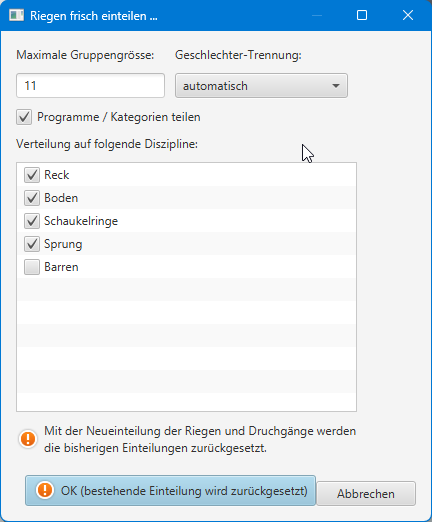
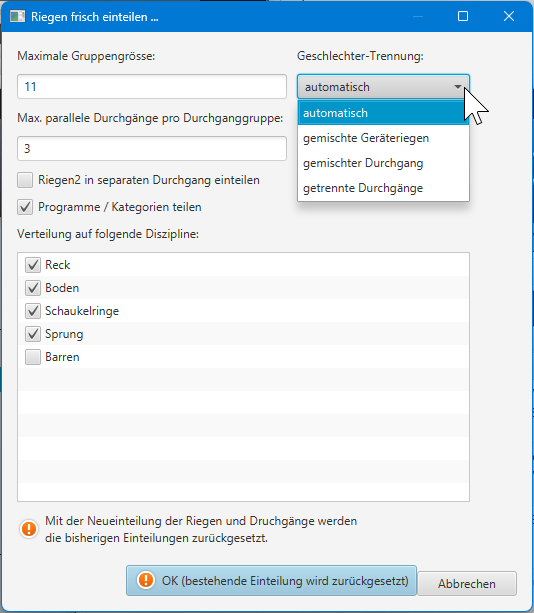
Beschreibung der optimierten Durchgangs-Einteilungs Funktionen

Changed region(s): [[0.0, 0.0, 1.0, 1.0]]

diff --git a/wettkampf-vorbereitung/riegeneinteilung_erstellen/riegeneinteilung_erstellen_mustervorgehen_getu.md b/wettkampf-vorbereitung/riegeneinteilung_erstellen/riegeneinteilung_erstellen_mustervorgehen_getu.md
@@ -24,6 +24,7 @@ Im Dialog werden die neuen Parameter angegeben. Neben der Gruppengrösse können
 |                      Funktion | Beschreibung                                                                                                                                                                                                                                                                                                                                                                                                                                                                                                                                                                                                |
 | ----------------------------: | ----------------------------------------------------------------------------------------------------------------------------------------------------------------------------------------------------------------------------------------------------------------------------------------------------------------------------------------------------------------------------------------------------------------------------------------------------------------------------------------------------------------------------------------------------------------------------------------------------------- |
 |        Maximale Gruppengrösse | Limitieren oder erweitern, was zu mehr oder weniger Durchgängen führen kann.                                                                                                                                                                                                                                                                                                                                                                                                                                                                                                                                |
+| Max. parallele Durchgänge pro Durchganggruppe | Steuern ob und wieviele parallele Durchgänge in einer Abteilung betrieben werden sollen, sofern aufgrund der Anzahl Teilnehmenden und der Maximal-Anzahl der Riegengruppengrösse ein Druchgang nicht ausreicht und die Geräteriegen auf mehreren Durchgängen verteilt werden müssen. Mit dem Wert `0` werden keine Durchgangsgruppen gebildet und die zusätzlichen Durchgänge werden normal neben allen anderen Durchgängen eingegliedert. |
 |         Geschlechter-Trennung | Bei `gemischte Geräterieten` werden geschlecht-gemischte Riegen erstellt. Bei `gemischter Durchgang` werden Riegen ohne Geschlechts-Durchmischung erstellt, innerhalb eines Durchganges werden jedoch Riegen beider Geschlechter eingeteilt Bei `getrennte Durchgänge` werden Durchgänge ohne Geschlechts-Durchmischung erstellt. Die Aufteilung auf Geschlechts-Ebene kann helfen, die Turner in einen separaten Durchgang zu ziehen, in welchem dann z.B. auch Barren verwendet wird: ![Riegen & Durchgänge Einteilung nachbearbeiten 3](<../../assets/getu-durchgang-partial-replanning-barren.png>) |
 | Programme / Kategorien teilen | Wenn diese Option aktiviert ist, dann gibt es pro Programm/Kategorie eigene Durchgänge. Im deaktivierten Zustand können Programme/Kategorien in einem Durchgang gemischt werden.                                                                                                                                                                                                                                                                                                                                                                                                                            |
 |     Verteilung auf Diszipline | Einzelne `Geräte` im Durchgang `ausschliessen` oder mit `einschliessen` (Barren), was zu grösseren oder kleineren Gruppen führt und dadurch ev. mehr oder weniger Durchgängen.                                                                                                                                                                                                                                                                                                                                                                                                                              |
@@ -44,7 +45,13 @@ Die Riegen können auch mittels Drag & Drop auf ein anderes Startgerät oder in 
 
 Mit gruppierten Durchgängen ist darauf zu achten, dass beim Fallenlassen (drop) der Riege die Durchgang-Gruppe aufgeklappt ist. Auf zugegklappte Durchgangs-Gruppen kann keine Riege zugeteilt werden. Siehe auch [Durchgang-Planung](durchgang-planung.md)
 
-Im GeTu ist es bei geschlechts-gemischten Durchgängen üblich, dass die Barren-Station am Ende eines Durchgangs für alle Turner aus dem Durchgang durchgeführt wird. Diese Einteilung lässt sich mit folgendem Trick erreichen:
+Im GeTu ist es bei geschlechts-gemischten Durchgängen üblich, dass die Barren-Station am Ende eines Durchgangs für alle Turner aus dem Durchgang durchgeführt wird. Die automatische Einteilung kann die Barren-Riege in folgenden Varianten einteilen:
+
+1. Mit der Checkbox angewählt, dass die `Riege2 in einen separaten Durchgang eingeteilt` wird, wo dann die Barren-Riegen zugewiesen sind.
+2. Ohne dediziertem Durchgang für die Riege2-Zuteilung, aber in dem Durchgang als `Riege2 Gerät` integriert, so dass der Barren separat und nicht in die Rotation aller anderen Geräte kommt.
+3. Mit der Checkbox in der `Startgeräteliste beim Barren aktiviert`, wird der Barren in die normale Startgeräte-Rotation im selben Durchgang eingeteilt. Diese Einstellung ist vorbelegt bei reinen Männer-Wettkämpfen.
+
+Diese Einteilung lässt sich aber auch manuell mit folgendem Trick erreichen:
 
 | Beschreibung                                                                        | Illustration                                                                                       |
 | ----------------------------------------------------------------------------------- | -------------------------------------------------------------------------------------------------- |

diff --git a/wettkampf-vorbereitung/riegeneinteilung_erstellen/durchgang-neu-einteilen.md b/wettkampf-vorbereitung/riegeneinteilung_erstellen/durchgang-neu-einteilen.md
@@ -7,6 +7,7 @@
 | Funktion | Beschreibung |
 | :--- | :--- |
 | Maximale Gruppengrösse | Limitieren oder erweitern, was zu mehr oder weniger Durchgängen führen kann. Mit dem Wert `0` ist die Gruppengrösse unlimitiert. |
+| Max. parallele Durchgänge pro Durchganggruppe | Steuern ob und wieviele parallele Durchgänge in einer Abteilung betrieben werden sollen, sofern aufgrund der Anzahl Teilnehmenden und der Maximal-Anzahl der Riegengruppengrösse ein Druchgang nicht ausreicht und die Geräteriegen auf mehreren Durchgängen verteilt werden müssen. Mit dem Wert `0` werden keine Durchgangsgruppen gebildet und die zusätzlichen Durchgänge werden normal neben allen anderen Durchgängen eingegliedert. |
 | Geschlechter-Trennung | Bei `gemischte Geräteriegen` werden geschlecht-gemischte Riegen erstellt. Bei `gemischter Durchgang` werden Riegen ohne Geschlechts-Durchmischung erstellt, innerhalb eines Durchganges werden jedoch Riegen beider Geschlechter eingeteilt. Bei `getrennte Durchgänge` werden Durchgänge ohne Geschlechts-Durchmischung erstellt. Mit `automatisch` entscheidet das Programm anhand der Geräte-Geschlechtszuordnungsregel, ob in einem Durchgang die Geschlechter getrennt werden sollen. Wenn beide Geschlechter dieselben Geräte turnen, wird `gemischte Geräteriegen` verwendet, ansonste `getrennte Durchgänge`. |
 | Programme / Kategorien teilen | Wenn diese Option aktiviert ist, dann gibt es pro Programm/Kategorie eigene Durchgänge. Im deaktivierten Zustand können Programme/Kategorien in einem Durchgang gemischt werden. |
 | Verteilung auf Diszipline | Einzelne `Geräte` im Durchgang `ausschliessen` oder mit `einschliessen`, was zu grösseren oder kleineren Gruppen führt und dadurch ev. mehr oder weniger Durchgängen. |
